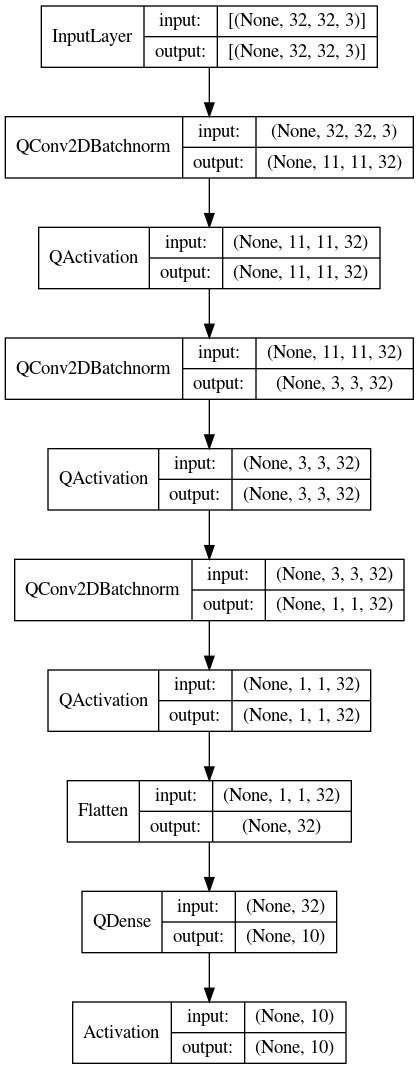
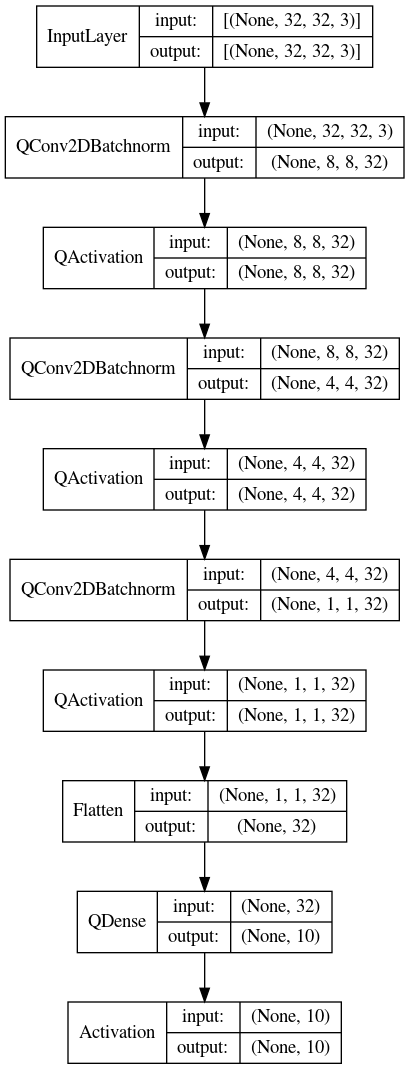
New .yml

diff --git a/eembc/CIFAR10_ResNetv1/resnet_v1_eembc.py b/eembc/CIFAR10_ResNetv1/resnet_v1_eembc.py
@@ -26,7 +26,7 @@ def resnet_v1_eembc(input_shape=[32, 32, 3], num_classes=10, l1p=0, l2p=1e-4,
                              '212', # block 3
                     ],
                     skip=True,
-                    avg_pooling=False):
+                    avg_pooling=True):
 
     # Input layer, change kernel size to 7x7 and strides to 2 for an official resnet
     inputs = Input(shape=input_shape)
@@ -56,10 +56,10 @@ def resnet_v1_eembc(input_shape=[32, 32, 3], num_classes=10, l1p=0, l2p=1e-4,
                   kernel_initializer='he_normal',
                   kernel_regularizer=l1_l2(l1=l1p,l2=l2p))(y)
     y = BatchNormalization()(y)
-  
+
     # Overall residual, connect weight layer and identity paths
     if skip:
-        x = Add()([x, y]) 
+        x = Add()([x, y])
     else:
         x = y
     x = Activation('relu')(x)
@@ -74,7 +74,7 @@ def resnet_v1_eembc(input_shape=[32, 32, 3], num_classes=10, l1p=0, l2p=1e-4,
                    kernel_initializer='he_normal',
                    kernel_regularizer=l1_l2(l1=l1p,l2=l2p))(x)
         y = BatchNormalization()(y)
-        y = Activation('relu')(y)  
+        y = Activation('relu')(y)
         y = Conv2D(num_filters[3],
                    kernel_size=kernel_sizes[4],
                    strides=int(strides[1][1]),
@@ -82,7 +82,7 @@ def resnet_v1_eembc(input_shape=[32, 32, 3], num_classes=10, l1p=0, l2p=1e-4,
                    kernel_initializer='he_normal',
                    kernel_regularizer=l1_l2(l1=l1p,l2=l2p))(y)
         y = BatchNormalization()(y)
-        
+
         # Adjust for change in dimension due to stride in identity
         x = Conv2D(num_filters[3],
                    kernel_size=kernel_sizes[5],
@@ -90,14 +90,14 @@ def resnet_v1_eembc(input_shape=[32, 32, 3], num_classes=10, l1p=0, l2p=1e-4,
                    padding='same',
                    kernel_initializer='he_normal',
                    kernel_regularizer=l1_l2(l1=l1p,l2=l2p))(x)
-        
+
         # Overall residual, connect weight layer and identity paths
         if skip:
             x = Add()([x, y])
         else:
             x = y
         x = Activation('relu')(x)
-        
+
     if len(num_filters) > 4 and num_filters[4] > 0 and strides[2] != '' and kernel_sizes[6] > 0:
         # Third stack
         # Weight layers
@@ -116,7 +116,7 @@ def resnet_v1_eembc(input_shape=[32, 32, 3], num_classes=10, l1p=0, l2p=1e-4,
                    kernel_initializer='he_normal',
                    kernel_regularizer=l1_l2(l1=l1p,l2=l2p))(y)
         y = BatchNormalization()(y)
-        
+
         # Adjust for change in dimension due to stride in identity
         x = Conv2D(num_filters[5],
                    kernel_size=kernel_sizes[8],
@@ -124,7 +124,7 @@ def resnet_v1_eembc(input_shape=[32, 32, 3], num_classes=10, l1p=0, l2p=1e-4,
                    padding='same',
                    kernel_initializer='he_normal',
                    kernel_regularizer=l1_l2(l1=l1p,l2=l2p))(x)
-        
+
         # Overall residual, connect weight layer and identity paths
         if skip:
             x = Add()([x, y])
@@ -162,11 +162,11 @@ def resnet_v1_eembc(input_shape=[32, 32, 3], num_classes=10, l1p=0, l2p=1e-4,
         else:
             x = y
         x = QActivation(activation=activation_quantizer)(x)
-        
+
     # Final classification layer.
     pool_size = int(np.amin(x.shape[1:3]))
     if pool_size > 1 and avg_pooling:
-        x = AveragePooling2D(pool_size=pool_size)(x)
+        x = MaxPooling2D(pool_size=pool_size)(x)
     y = Flatten()(x)
     y = Dense(num_classes,
                     kernel_initializer='he_normal')(y)
@@ -234,8 +234,8 @@ def resnet_v1_eembc_quantized(input_shape=[32, 32, 3], num_classes=10, l1p=0, l2
     # Overall residual, connect weight layer and identity paths
     if skip:
         y = QActivation(activation=logit_quantizer)(y)
-        x = Add()([x, y]) 
-    else: 
+        x = Add()([x, y])
+    else:
         x = y
     x = QActivation(activation=activation_quantizer)(x)
 
@@ -259,7 +259,7 @@ def resnet_v1_eembc_quantized(input_shape=[32, 32, 3], num_classes=10, l1p=0, l2
                     bias_quantizer=logit_quantizer,
                     kernel_initializer='he_normal',
                     kernel_regularizer=l1_l2(l1=l1p,l2=l2p))(y)
-        
+
         # Adjust for change in dimension due to stride in identity
         x = QConv2D(num_filters[3],
                     kernel_size=kernel_sizes[5],
@@ -299,7 +299,7 @@ def resnet_v1_eembc_quantized(input_shape=[32, 32, 3], num_classes=10, l1p=0, l2
                     bias_quantizer=logit_quantizer,
                     kernel_initializer='he_normal',
                     kernel_regularizer=l1_l2(l1=l1p,l2=l2p))(y)
-  
+
         # Adjust for change in dimension due to stride in identity
         x = QConv2D(num_filters[5],
                     kernel_size=kernel_sizes[8],
@@ -310,7 +310,7 @@ def resnet_v1_eembc_quantized(input_shape=[32, 32, 3], num_classes=10, l1p=0, l2
                     kernel_initializer='he_normal',
                     kernel_regularizer=l1_l2(l1=l1p,l2=l2p))(x)
         x = QActivation(activation=logit_quantizer)(x)
-        
+
         # Overall residual, connect weight layer and identity paths
         if skip:
             y = QActivation(activation=logit_quantizer)(y)

diff --git a/eembc/CIFAR10_ResNetv1/train.py b/eembc/CIFAR10_ResNetv1/train.py
@@ -32,9 +32,9 @@ def main(args):
     input_shape = [32,32,3]
     num_classes = 10
     config = yaml_load(args.config)
-    num_filters = config['model']['filters']
-    kernel_sizes = config['model']['kernels']
-    strides = config['model']['strides']
+    num_filters = [32,32,0,0,0,0]#config['model']['filters']
+    kernel_sizes = [4,3,4,0,0,0,0,0,0]#config['model']['kernels']
+    strides = ['424','000','000']#config['model']['strides']
     l1p = float(config['model']['l1'])
     l2p = float(config['model']['l2'])
     skip = bool(config['model']['skip'])
@@ -42,7 +42,7 @@ def main(args):
     batch_size = config['fit']['batch_size']
     num_epochs = config['fit']['epochs']
     verbose = config['fit']['verbose']
-    patience = config['fit']['patience']
+    patience = 100 #config['fit']['patience']
     save_dir = config['save_dir']
     model_name = config['model']['name']
     loss = config['fit']['compile']['loss']
@@ -113,8 +113,8 @@ def main(args):
     print('# MODEL SUMMARY #')
     print('#################')
     print(model.summary())
-    print('#################') 
-    
+    print('#################')
+
     # analyze FLOPs (see https://github.com/kentaroy47/keras-Opcounter)
     layer_name, layer_flops, inshape, weights = kerop.profile(model)
 
@@ -169,12 +169,12 @@ def main(args):
 
     # evaluate with test dataset and share same prediction results
     evaluation = model.evaluate(X_test, y_test)
-    
+
     auc = roc_auc_score(y_test, y_pred, average='weighted', multi_class='ovr')
 
     print('Model test accuracy = %.3f' % evaluation[1])
     print('Model test weighted average AUC = %.3f' % auc)
-        
+
 if __name__ == "__main__":
     parser = argparse.ArgumentParser()
     parser.add_argument('-c', '--config', type=str, default = "baseline.yml", help="specify yaml config")
